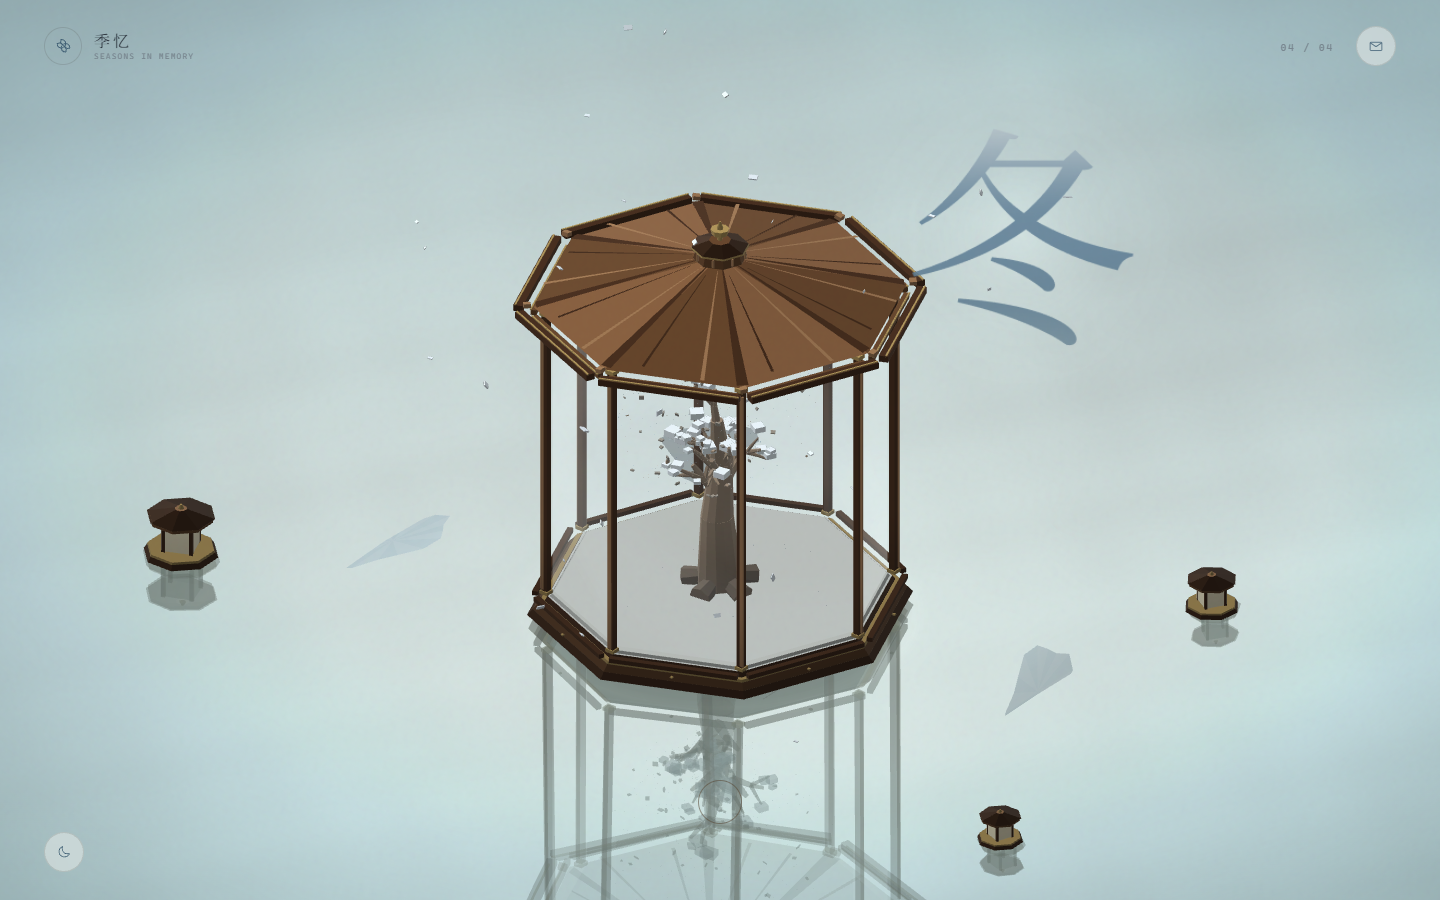
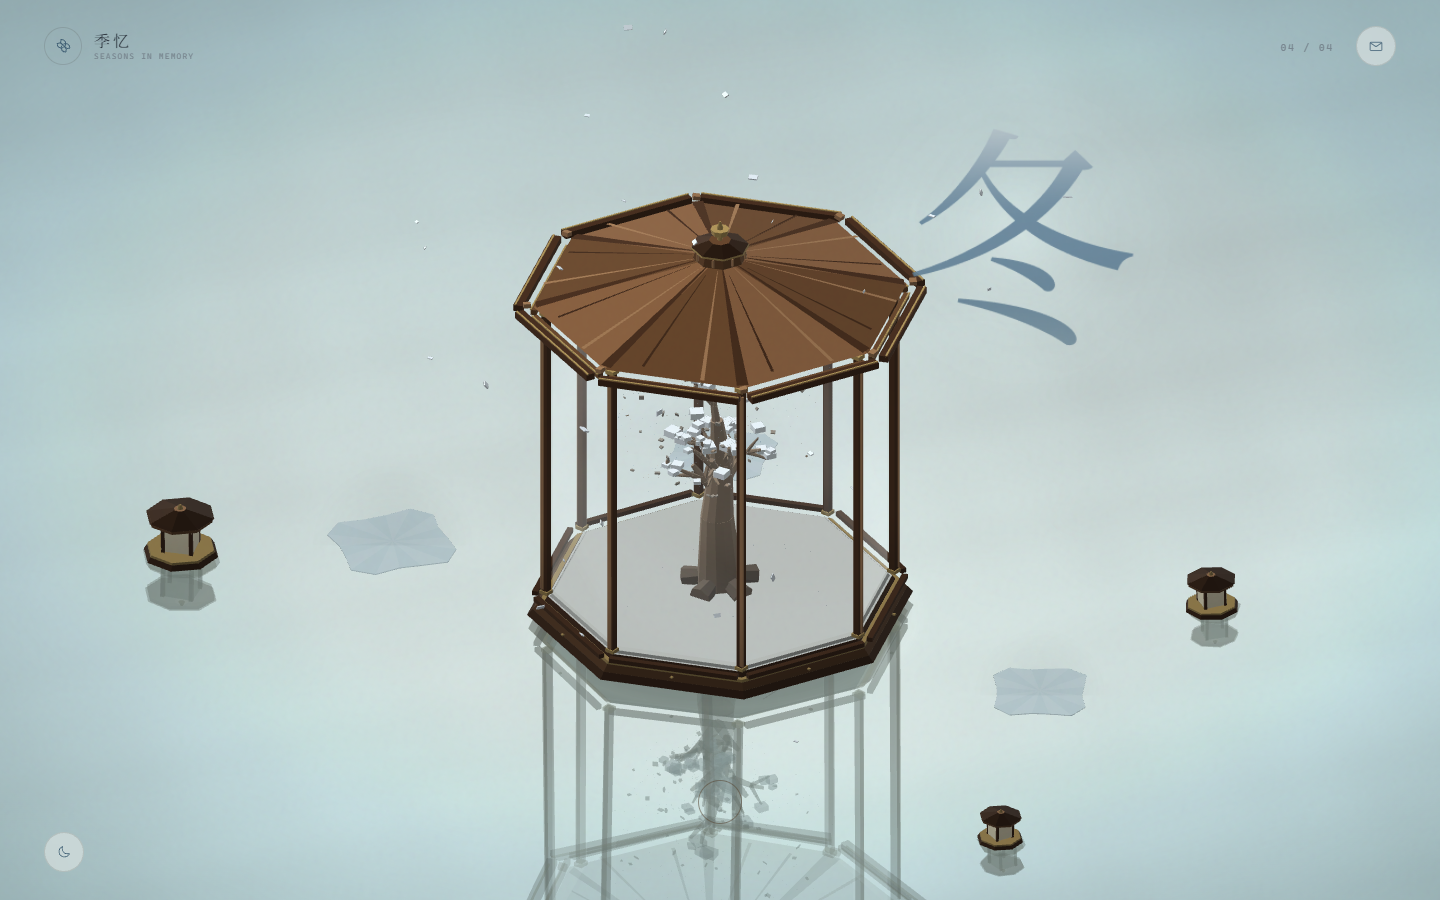
季忆 · 修正水面装饰竖直与贴图感，补慢速动效

Changed region(s): [[0.2188, 0.56, 0.3125, 0.6533], [0.6875, 0.7156, 0.75, 0.8089], [0.4688, 0.4667, 0.5312, 0.5289]]

diff --git a/assets/js/world.js b/assets/js/world.js
@@ -579,16 +579,28 @@
 
   function buildIcePatch() {
     const g = Geo();
-    const center = [0, 0.02, 0];
+    const center = [0, 0.018, 0];
+    const bottom = [0, 0.002, 0];
     const N = 16;
     const pts = [];
     for (let i = 0; i < N; i++) {
       const a = (i / N) * TAU;
       const r = 0.55 + 0.09 * Math.sin(i * 1.6 + 0.5);
-      pts.push([Math.cos(a) * r, 0.008, Math.sin(a) * r]);
+      pts.push([Math.cos(a) * r, 0.012, Math.sin(a) * r]);
     }
     const cols = [[0.82, 0.9, 0.92], [0.9, 0.95, 0.96]];
     for (let i = 0; i < N; i++) pushTri(g, center, pts[i], pts[(i + 1) % N], [0, 1, 0], cols[i % 2]);
+    // thin slab sides and underside
+    for (let i = 0; i < N; i++) {
+      const j = (i + 1) % N;
+      const ti = pts[i];
+      const tj = pts[j];
+      const bi = [ti[0], 0.002, ti[2]];
+      const bj = [tj[0], 0.002, tj[2]];
+      pushTri(g, ti, tj, bj, [0, 0.4, 1], [0.72, 0.84, 0.9]);
+      pushTri(g, ti, bj, bi, [0, 0.4, 1], [0.72, 0.84, 0.9]);
+      pushTri(g, bottom, bi, bj, [0, -1, 0], [0.78, 0.88, 0.92]);
+    }
     return g;
   }
 
@@ -611,15 +623,15 @@
     const g = Geo();
     const N = 10;
     const cols = [[0.72, 0.5, 0.28], [0.8, 0.56, 0.32], [0.65, 0.44, 0.24]];
-    const center = [0, 0.006, 0];
+    const center = [0, 0.024, 0];
     const pts = [];
     for (let i = 0; i < N; i++) {
       const a = (i / N) * TAU;
       const r = 0.24 * (0.7 + 0.3 * Math.cos(a - 0.4));
-      pts.push([Math.cos(a) * r, 0.003, Math.sin(a) * r]);
+      pts.push([Math.cos(a) * r, 0.004, Math.sin(a) * r]);
     }
     for (let i = 0; i < N; i++) pushTri(g, center, pts[i], pts[(i + 1) % N], [0, 1, 0], cols[i % 3]);
-    addBox(g, 0, 0.004, -0.2, 0.015, 0.004, 0.12, hexToRgb('#6e4a2c'), 0, 0);
+    addBox(g, 0, 0.005, -0.2, 0.015, 0.006, 0.12, hexToRgb('#6e4a2c'), 0, 0);
     return g;
   }
 
@@ -637,14 +649,14 @@
         const lz = Math.sin(b) * 0.13;
         pts.push([
           cx + Math.cos(a) * lx - Math.sin(a) * lz,
-          0.01,
+          0.007,
           cz + Math.sin(a) * lx + Math.cos(a) * lz,
         ]);
       }
-      const pc = [cx, 0.012, cz];
+      const pc = [cx, 0.032, cz];
       for (let k = 0; k < 8; k++) pushTri(g, pc, pts[k], pts[(k + 1) % 8], [0, 1, 0], cols[i % 3]);
     }
-    addCylinder(g, [0, 0.014, 0], [0, 0.024, 0], 0.07, 0.05, 8, [0.95, 0.78, 0.4], [0.9, 0.7, 0.35]);
+    addCylinder(g, [0, 0.02, 0], [0, 0.036, 0], 0.07, 0.05, 8, [0.95, 0.78, 0.4], [0.9, 0.7, 0.35]);
     return g;
   }
 
@@ -1389,7 +1401,7 @@
       for (let si = 0; si < smalls.length; si++) {
         const S = smalls[si];
         const [sx, sz, bob, sc] = smallPos(S);
-        m4.compose(matA, sx, bob, sz, S.rot + wt * 0.02, 0, 0, sc, sc, sc);
+        m4.compose(matA, sx, bob, sz, S.rot + wt * 0.02, 0.02 * Math.sin(wt * 0.6 + S.phase), 0.02 * Math.cos(wt * 0.5 + S.phase), sc, sc, sc);
         m4.multiply(matD, mirror, matA);
         renderer.drawMesh(smallFrameMesh, matD, { ghost: true, opacity: 0.2, dim: 0.6, wave: 1 });
         renderer.drawMesh(smallPaperMesh, matD, { ghost: true, opacity: 0.2, dim: 0.6, wave: 1, emissive: 0.03 + night * 0.4 });
@@ -1415,7 +1427,11 @@
         const x = d.x * dxs;
         const z = d.z * dxs;
         const sc = d.s * (0.9 + 0.12 * dxs);
-        m4.compose(matA, x, 0.02, z, d.rot, 0, 0, sc, sc, sc);
+        const bob = 0.012 * Math.sin(wt * 0.8 + d.x);
+        const sway = 0.035 * Math.sin(wt * 0.5 + d.z);
+        const tiltX = 0.012 * Math.sin(wt * 0.4 + d.x);
+        const tiltZ = 0.015 * Math.cos(wt * 0.35 + d.z);
+        m4.compose(matA, x, 0.02 + bob, z, d.rot + sway, tiltX, tiltZ, sc, sc, sc);
         if (refl) m4.multiply(matD, mirror, matA);
         const base = refl ? matD : matA;
         const op = refl ? w * 0.18 : w * 0.92;
@@ -1452,11 +1468,19 @@
         for (let di = 0; di < list.length; di++) {
           const d = list[di];
           if (d.t === 'flower') continue;
-          const x = d.x * dxs + Math.sin(wt * 0.1 + di) * 0.03;
-          const z = d.z * dxs + Math.cos(wt * 0.08 + di) * 0.025;
+          const x = d.x * dxs + Math.sin(wt * 0.1 + di) * 0.05;
+          const z = d.z * dxs + Math.cos(wt * 0.08 + di) * 0.04;
           const sc = d.s * (0.9 + 0.12 * dxs);
           const y = 0.035;
-          m4.compose(matA, x, y, z, 0, 0, d.rot, sc, sc, sc);
+          const bob = 0.01 * Math.sin(wt * 0.9 + di * 1.7);
+          const sway = 0.06 * Math.sin(wt * 0.32 + di * 1.9);
+          const pitch = 0.018 * Math.sin(wt * 0.55 + di * 1.3);
+          const roll = 0.022 * Math.cos(wt * 0.43 + di * 1.1);
+          m4.compose(matA, x, y + bob, z, d.rot + sway, pitch, roll, sc, sc, sc);
+          renderer.setDepth(false, true);
+          m4.billboard(matD, camera.right, camera.up, camera.back, [x, 0.006, z], 0, sc * 1.5, sc * 1.5);
+          renderer.drawSprite(tex.shadow, matD, [0.1, 0.1, 0.08], 0.085 * w, 'normal');
+          renderer.setDepth(true, true);
           let mesh = iceMesh;
           let tint = [0.8, 0.9, 0.96];
           let mix = 0.35;
@@ -1513,7 +1537,7 @@
       for (let si = 0; si < smalls.length; si++) {
         const S = smalls[si];
         const [sx, sz, bob, sc] = smallPos(S);
-        m4.compose(matA, sx, bob, sz, S.rot + wt * 0.02, 0, 0, sc, sc, sc);
+        m4.compose(matA, sx, bob, sz, S.rot + wt * 0.02, 0.02 * Math.sin(wt * 0.6 + S.phase), 0.02 * Math.cos(wt * 0.5 + S.phase), sc, sc, sc);
         renderer.drawMesh(smallFrameMesh, matA);
         renderer.drawMesh(smallPaperMesh, matA, { emissive: 0.12 + night * 0.8 });
       }

diff --git a/README.md b/README.md
@@ -77,7 +77,7 @@ npx serve .
 - **摘盖**：每圈开花时，玻璃罩（屋顶 + 木柱 + 玻璃）在抬升的同时轻微向右后方漂移并旋转，配合同一条平滑曲线，摘盖过程更连贯。
 - **水面**：四层不同方向/速度的风波 + 两层细毛细波 + 慢涌 + 噪声阵风，形成大小不一的斑块和高光；微波动画持续，不受季节定格冻结。
 - **写实涟漪**：下沉时水面出现**细同心环**——它们只扰动水面的法线/明暗与局部高光，不是叠加的白色光圈；圈数收敛到 2–3 圈，从浮板边向外扩散，先变宽再减速，在约 7 秒内平滑淡出。
-- **季节水景**：春有 4 朵浮花；夏有 3 片圆荷叶 + 1 朵粉荷；秋有 4 片大小/颜色不同的落叶；冬有 3 块软薄冰。随当前季节交叉淡入淡出；元素大小、旋转、颜色各不相同，不是同一套复制；荷花有倒影。
+- **季节水景**：春有 4 朵浮花；夏有 3 片圆荷叶 + 1 朵粉荷；秋有 4 片大小/颜色不同的落叶；冬有 3 块软薄冰。花瓣、叶子、荷叶、冰片都是带弧度或厚度的 3D 网格，平贴水面漂浮，不是零厚度贴图；每片有缓慢漂移、上下起伏、左右摆动和轻微倾斜，并带柔和接触阴影；荷花有倒影。
 - **花**：**每转满一圈开一次**。没有大「花」字；树干淡出，花从浮板上长出细绿色花茎和四片叶子；花瓣比之前略小。继续转动，花收回、树恢复。
 - **季节字**：从亭子内部向上升约 2.2 单位，透明度 0→0.98；位置上移到 0.24 / 0.30（桌面 / 手机）；白天用干净的深色季节渐变 + 柔和光晕，避免和浅色背景混在一起；阴影压到 0.035。
 - **夜间**：没有左上角光源；灯笼内部变亮，成为唯一主光；水灯、荷花、萤火和少量星点一起发光。
@@ -130,11 +130,12 @@ four-seasons/
 - 开花：每圈一次，罩子带漂移/倾斜抬离；圆点变空心花；礼物红点出现。
 - 水面：四层风纹 + 噪声阵风 + 高光，持续动画。
 - 手机 390×844：圆点、提示、礼物、昼夜按钮不重叠；信卡隐藏。
-- 页面无运行时报错；已 push 到 `main`。
+- 页面无运行时报错；水面浮花/落叶/荷叶/薄冰已水平漂浮并带缓慢动效；毛细微波持续动画；已 push 到 `main`。
 
 ## 说明
 
 - 页面无网络请求；`docs/` 仅是预览图。
 - 字体：Noto Serif SC 子集，SIL Open Font License 1.1。
 - 支持 `prefers-reduced-motion`。
+
 
